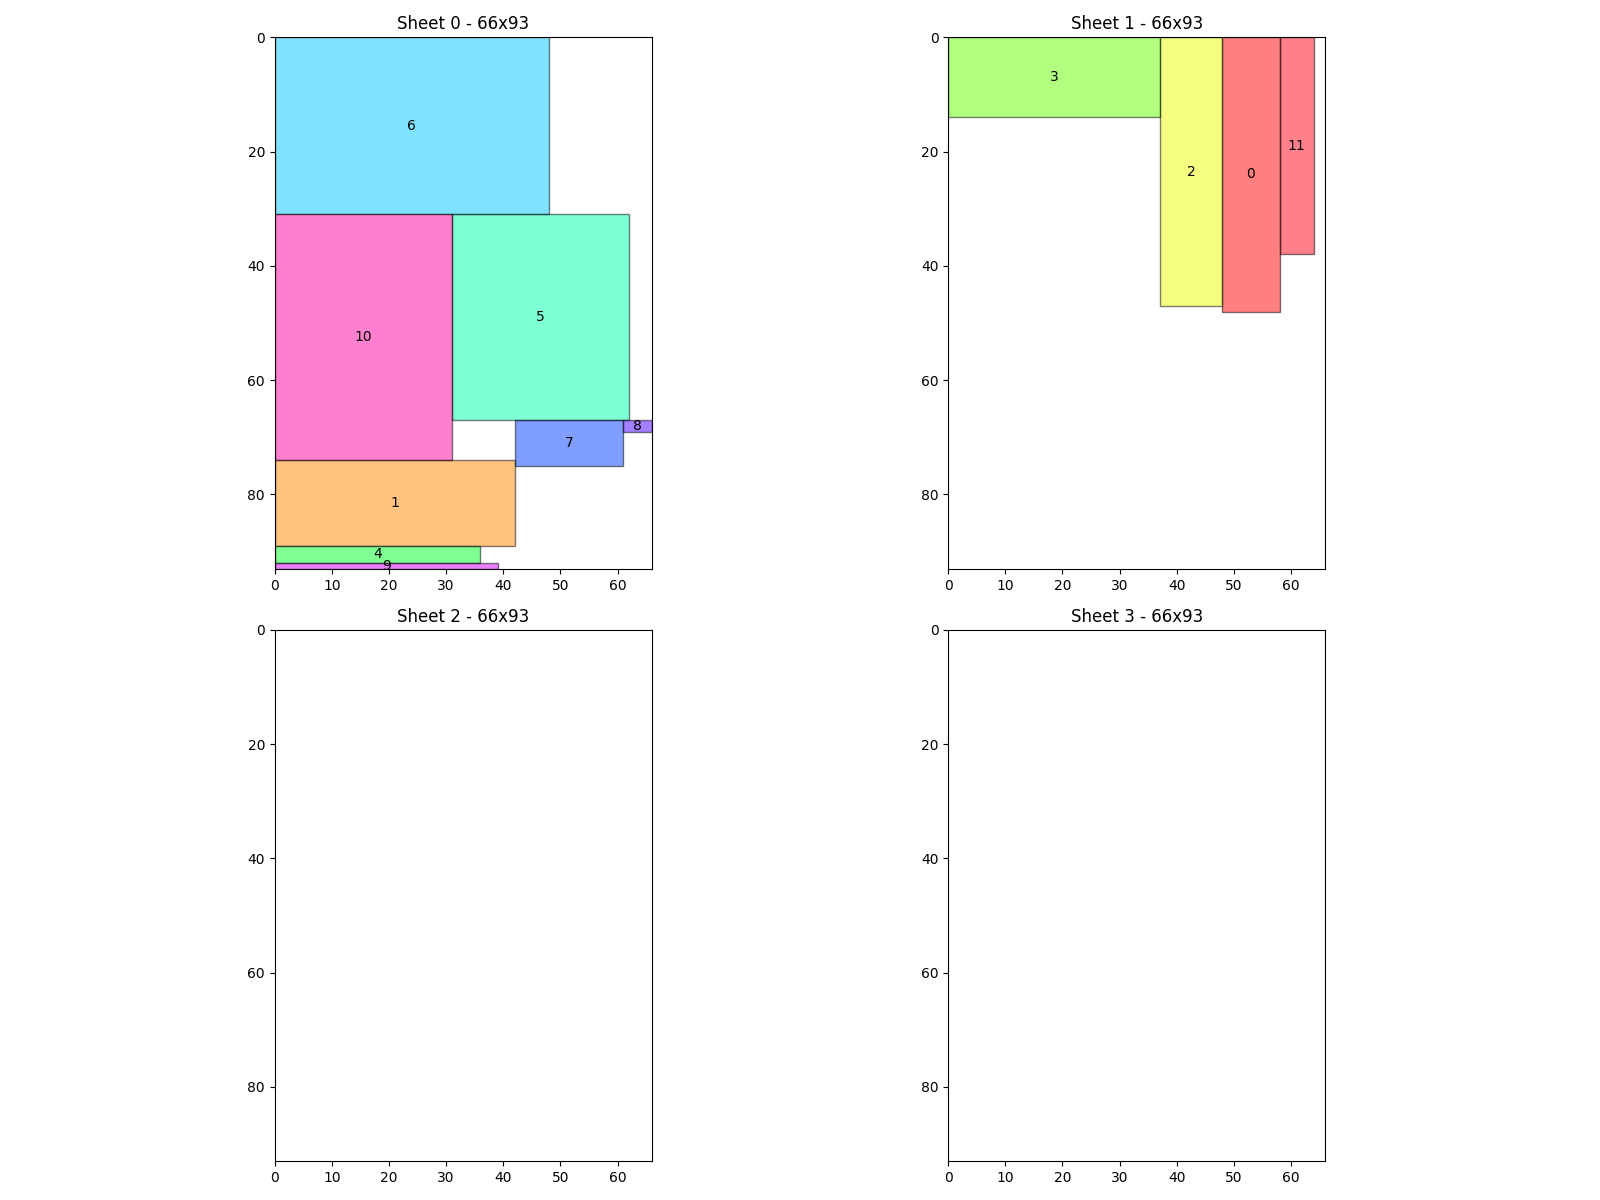
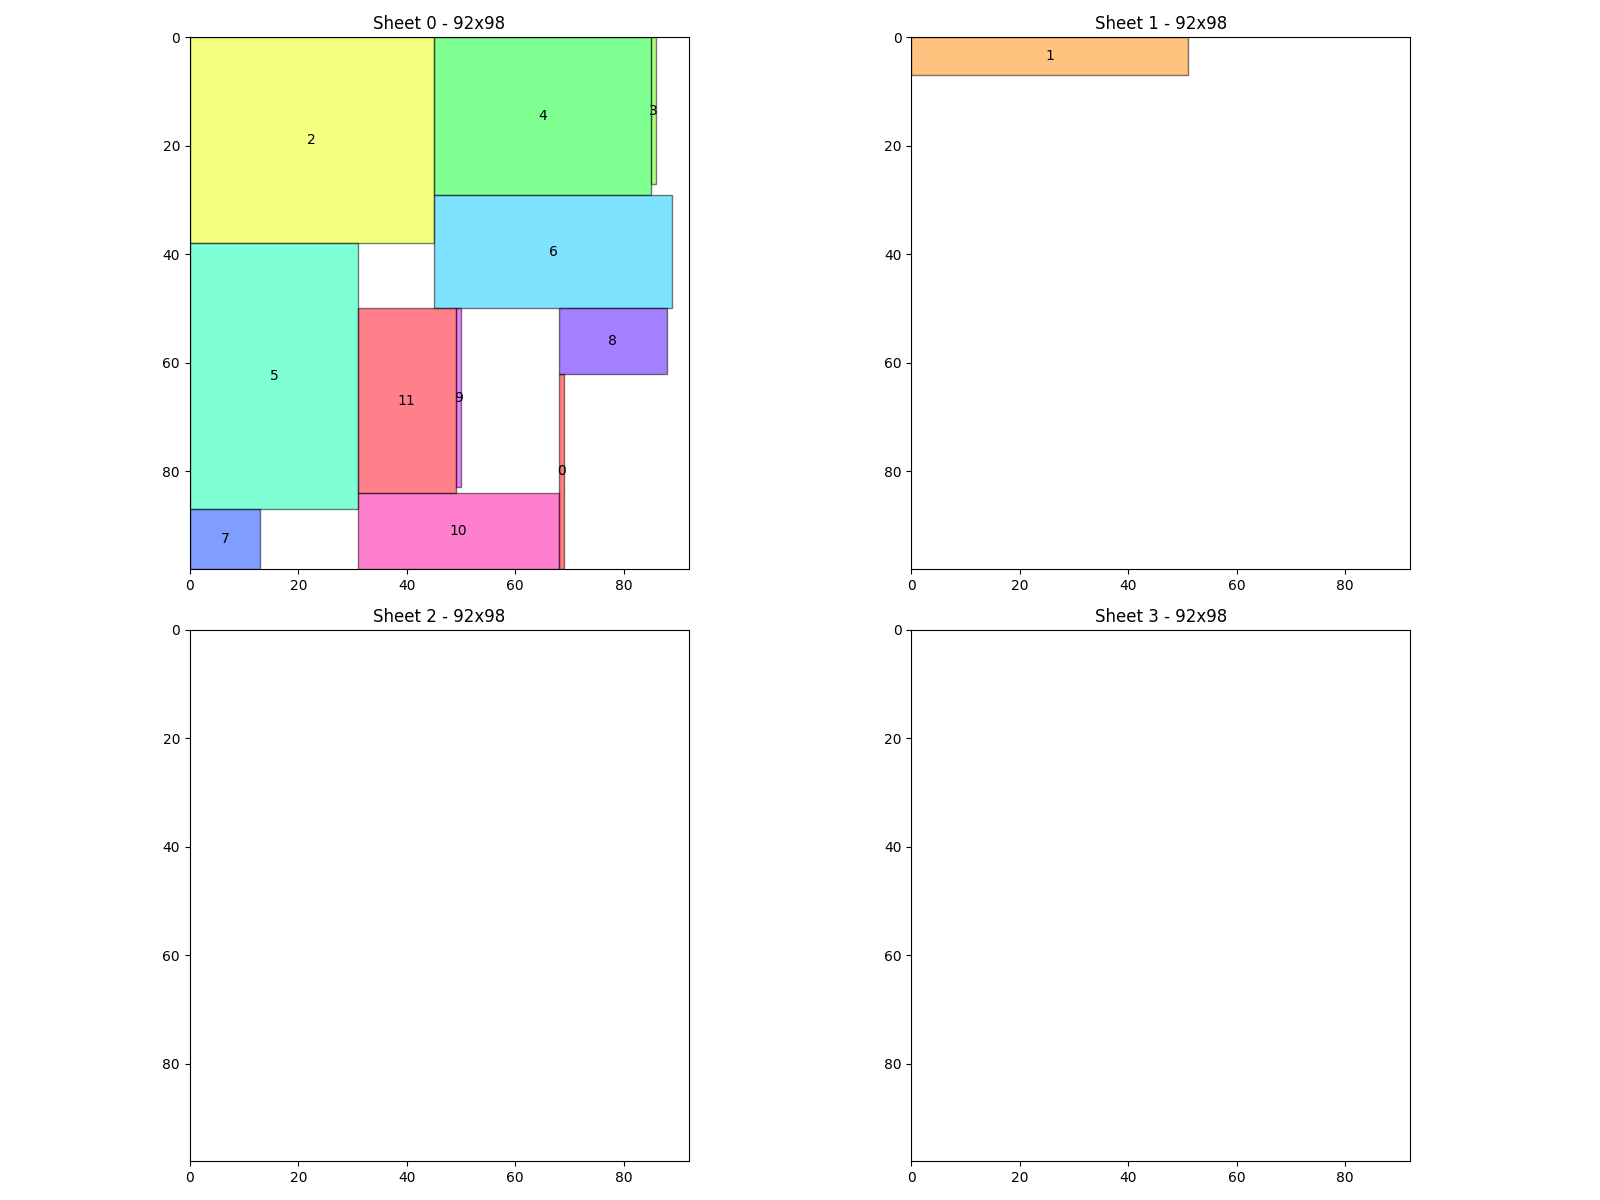
add fixed stock size and add result to json

Changed region(s): [[0.0938, 0.0, 0.4375, 0.5242], [0.5625, 0.0, 0.8438, 0.2775], [0.6875, 0.4933, 0.7812, 0.5242]]

diff --git a/CSP2D.py b/CSP2D.py
@@ -4,6 +4,7 @@ import sys
 import numpy as np
 import matplotlib.pyplot as plt
 import matplotlib.patches as patches
+import json
 
 from algo import exact, heuristic
 
@@ -121,6 +122,7 @@ if __name__ == "__main__":
         output_data = {
             'items_size': items_size,
             'stocks_size': stocks_size,
+            'result': json.dumps(result),
             'fill_percentage': fill_percentage,
             'solution_time': solutionTime
         }
